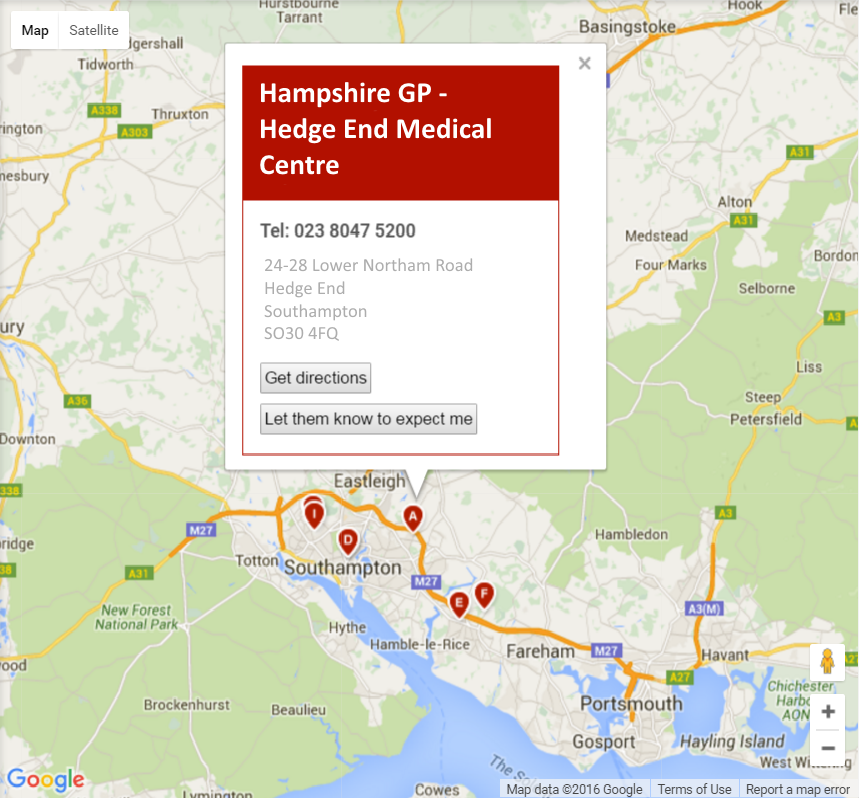
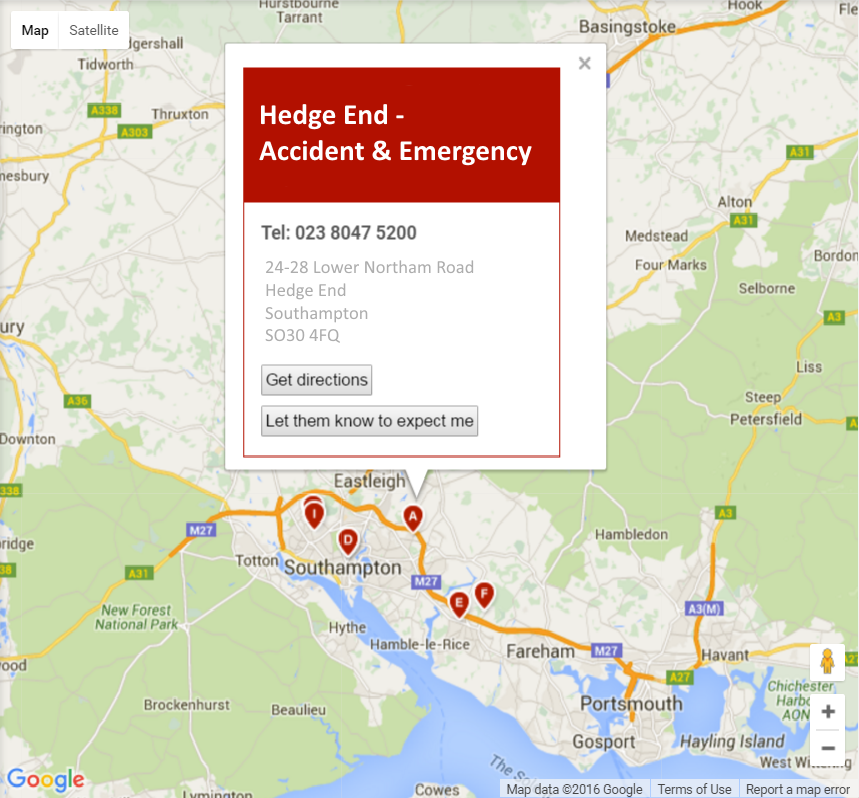
Made up an A&E department

Changed region(s): [[0.2724, 0.0602, 0.6659, 0.5714]]

diff --git a/prototypes/referral-signposting/1/SearchResults.html b/prototypes/referral-signposting/1/SearchResults.html
@@ -114,7 +114,7 @@
 
 <link href="disposition.css" media="screen" rel="stylesheet" type="text/css">
         <form action="itkreferral.html" method="GET">
-            <h2 style="margin-bottom: 20px;">Nearest A&E departments to SO19 7AX</h2>
+            <h2 style="margin-bottom: 20px;">Nearest A&E departments to SO50 7GY</h2>
         <div class="service-results">
             <section>
                 <div class="section-item">
@@ -123,7 +123,7 @@
                     </h3>
                     <div class="service-list-content">
                         <div class="service-name">
-                            <img src="icons/fac-map-A.png" />Hampshire GP - Hedge End Medical Centre, Southampton
+                            <img src="icons/fac-map-A.png" />Hedge End - Accident & Emergency
                         </div>
                         <div class="service-address">
                             24-28 Lower Northam Road<br /> Hedge End<br />Southampton<br />SO30 4FQ

diff --git a/prototypes/referral-signposting/1/itkreferral.html b/prototypes/referral-signposting/1/itkreferral.html
@@ -298,7 +298,7 @@
         <section style="border-bottom: solid rgba(128, 128, 128, 0.5) 1px; margin-bottom: 10px;">
             <div class="section-item">
                 <h3 class="section-header">
-                    Directions to Hampshire GP - Hedge End Medical Centre, Southampton
+                    Directions to Hedge End - Accident & Emergency
                 </h3>
 
                 <div class="personal-details-content" style="margin-bottom: 10px;">
